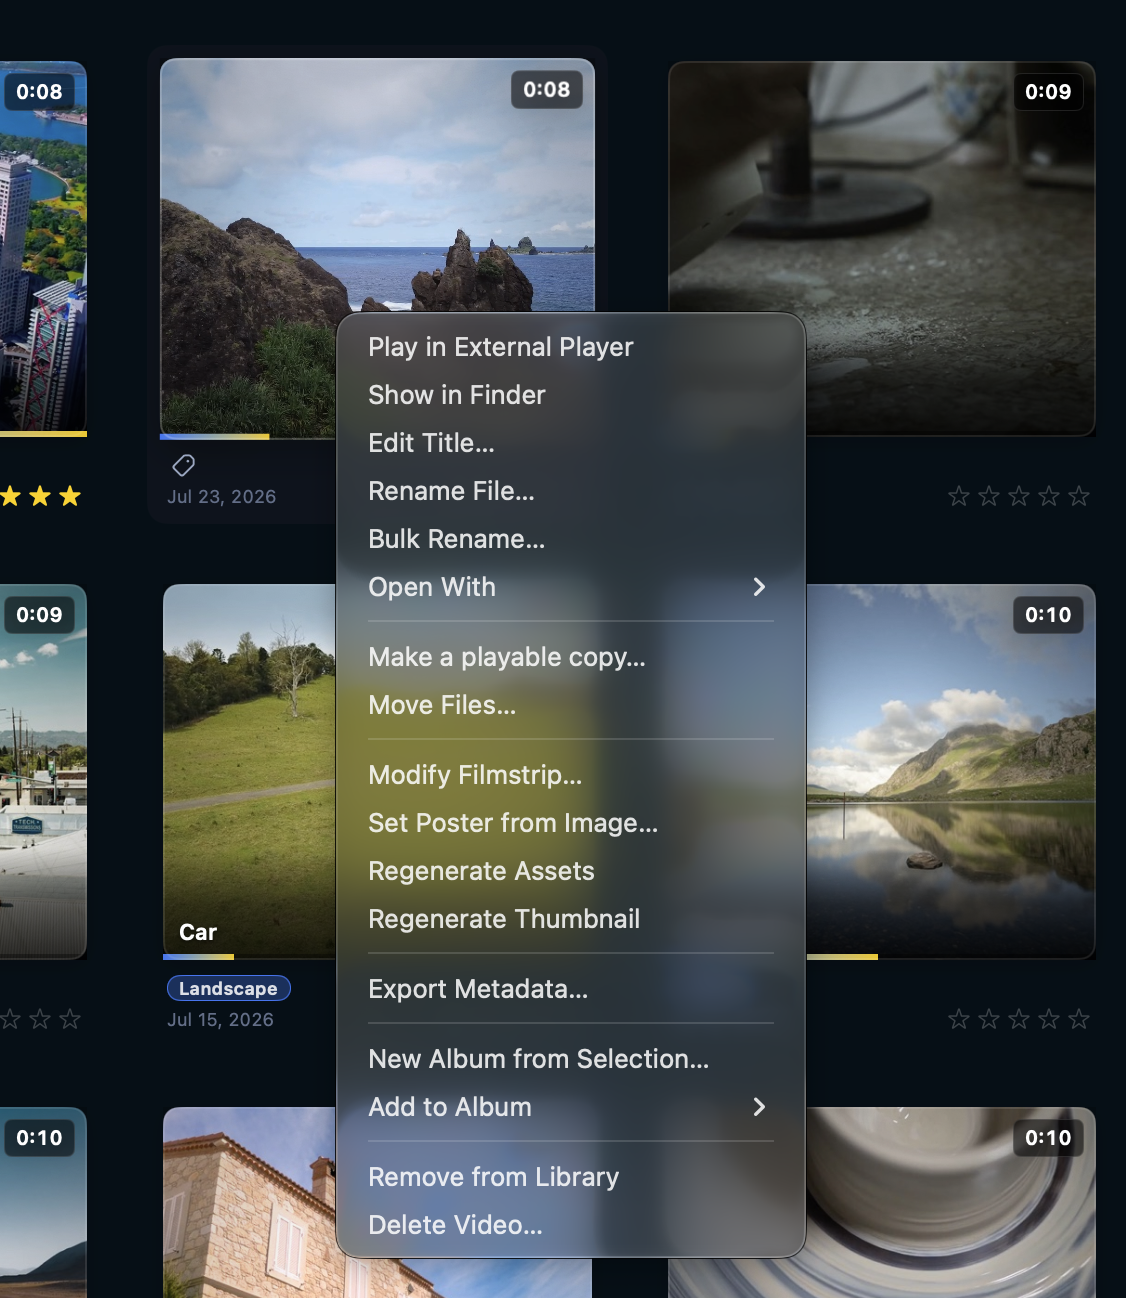
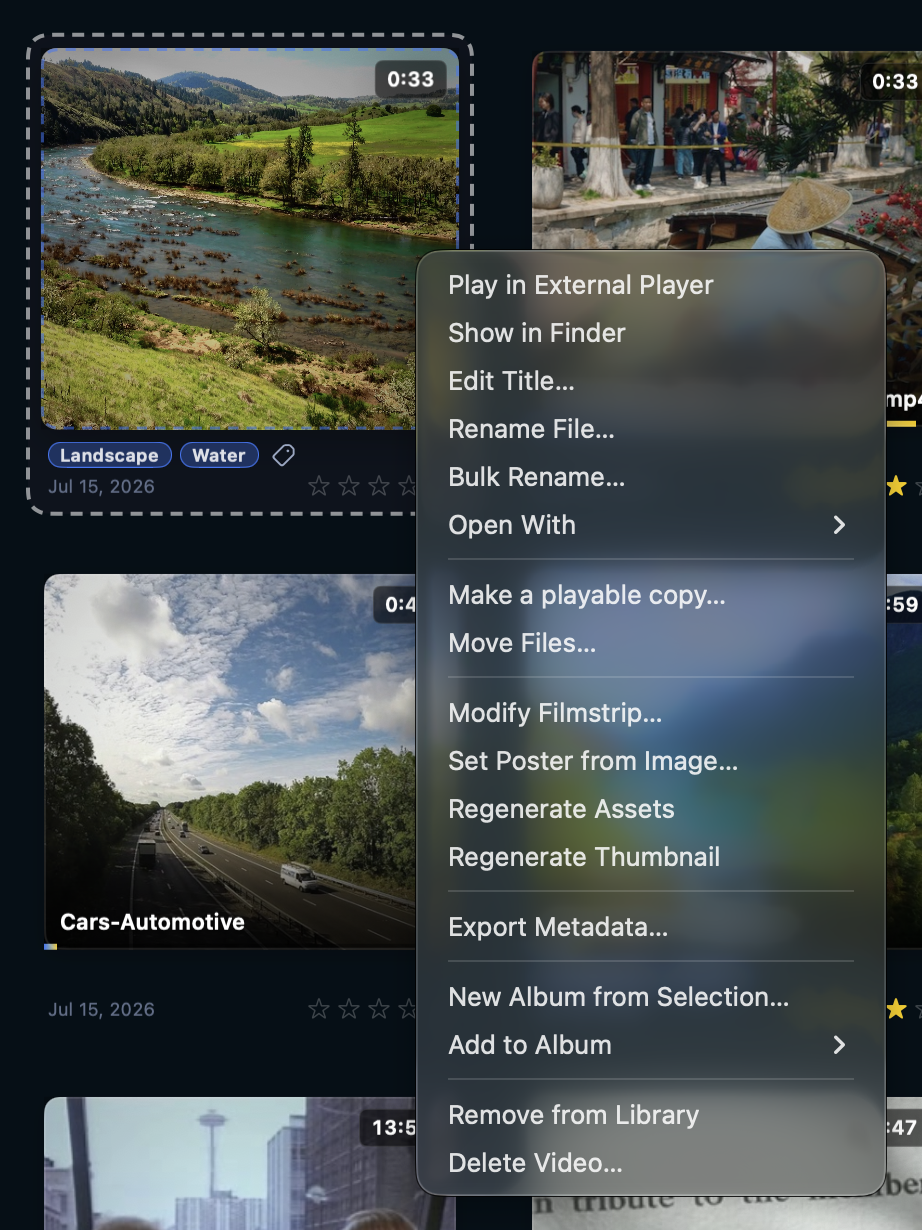
Add file-operations and playable-copy manual screenshots.
New hero on a playable video; inline shots for unplayable Make/Try and Remove playable copy. Clear stale capture flags.

diff --git a/src/app/skagway/manual/manual.ts b/src/app/skagway/manual/manual.ts
@@ -797,9 +797,6 @@ export const MANUAL_PAGES: ManualPage[] = [
       "Right-click a video, or a batch selection, for file commands. Long jobs report in the activity strip at the bottom of the window and in queues that survive a restart.",
     screenshot: "file-operations.png",
     screenshotCaption: "The right-click menu’s file commands",
-    screenshotNeedsUpdate: true,
-    screenshotStaleHash:
[1 lines of base64/hex data omitted]
     screenshotAlt:
       "Skagway grid context menu on a playable video with Rename File…, Bulk Rename…, and Move Files…",
     screenshotHint:

diff --git a/src/app/skagway/manual/guide.ts b/src/app/skagway/manual/guide.ts
@@ -341,9 +341,6 @@ export const GUIDE_PAGES: ManualPage[] = [
     screenshotCaption: "Move Files… in the right-click menu",
     screenshotAlt:
       "Skagway context menu on a playable video with Move Files… and other everyday file commands",
-    screenshotNeedsUpdate: true,
-    screenshotStaleHash:
[1 lines of base64/hex data omitted]
     sections: [
       {
         title: "Move from inside Skagway",

diff --git a/src/app/skagway/manual/search-index.generated.ts b/src/app/skagway/manual/search-index.generated.ts
@@ -6,7 +6,7 @@
  * Regenerate: npm run manual:index
  * (also runs on predev / prebuild)
  *
- * Generated: 2026-11-15T06:18:38.578Z
+ * Generated: 2026-11-15T06:38:15.674Z
  * Documents: 123
  */
 import type { ManualSearchDocument } from "./search-documents";
